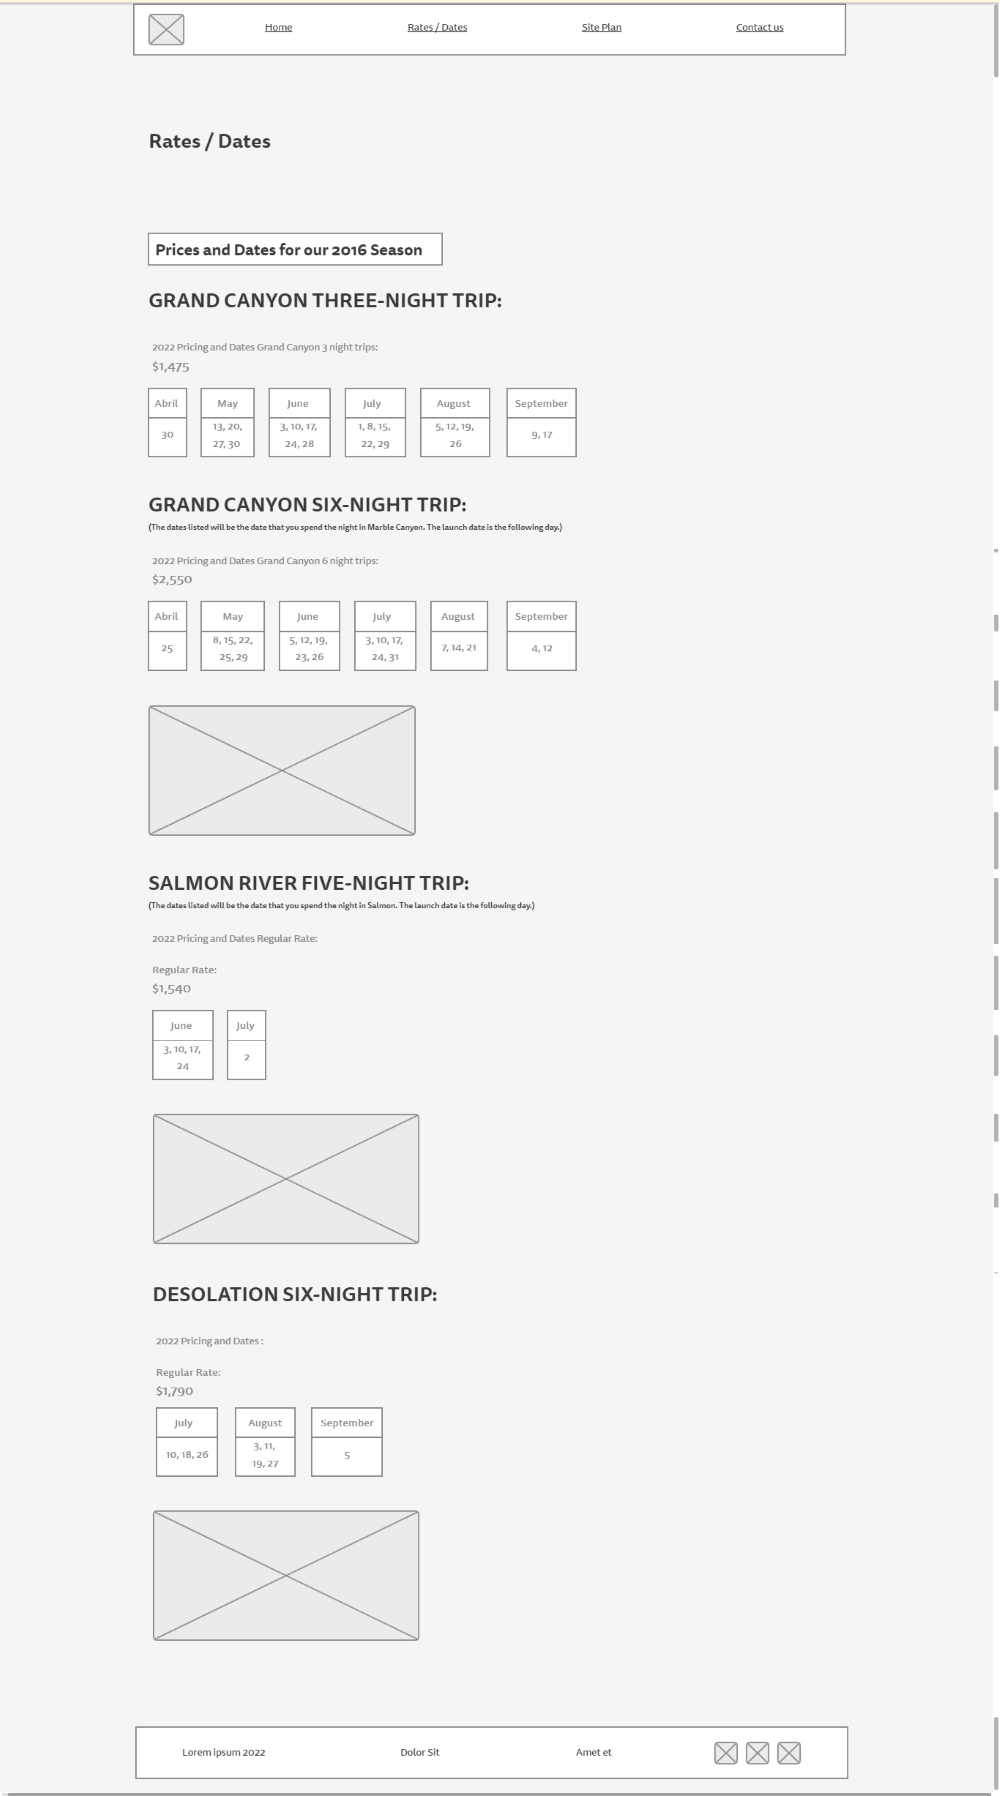
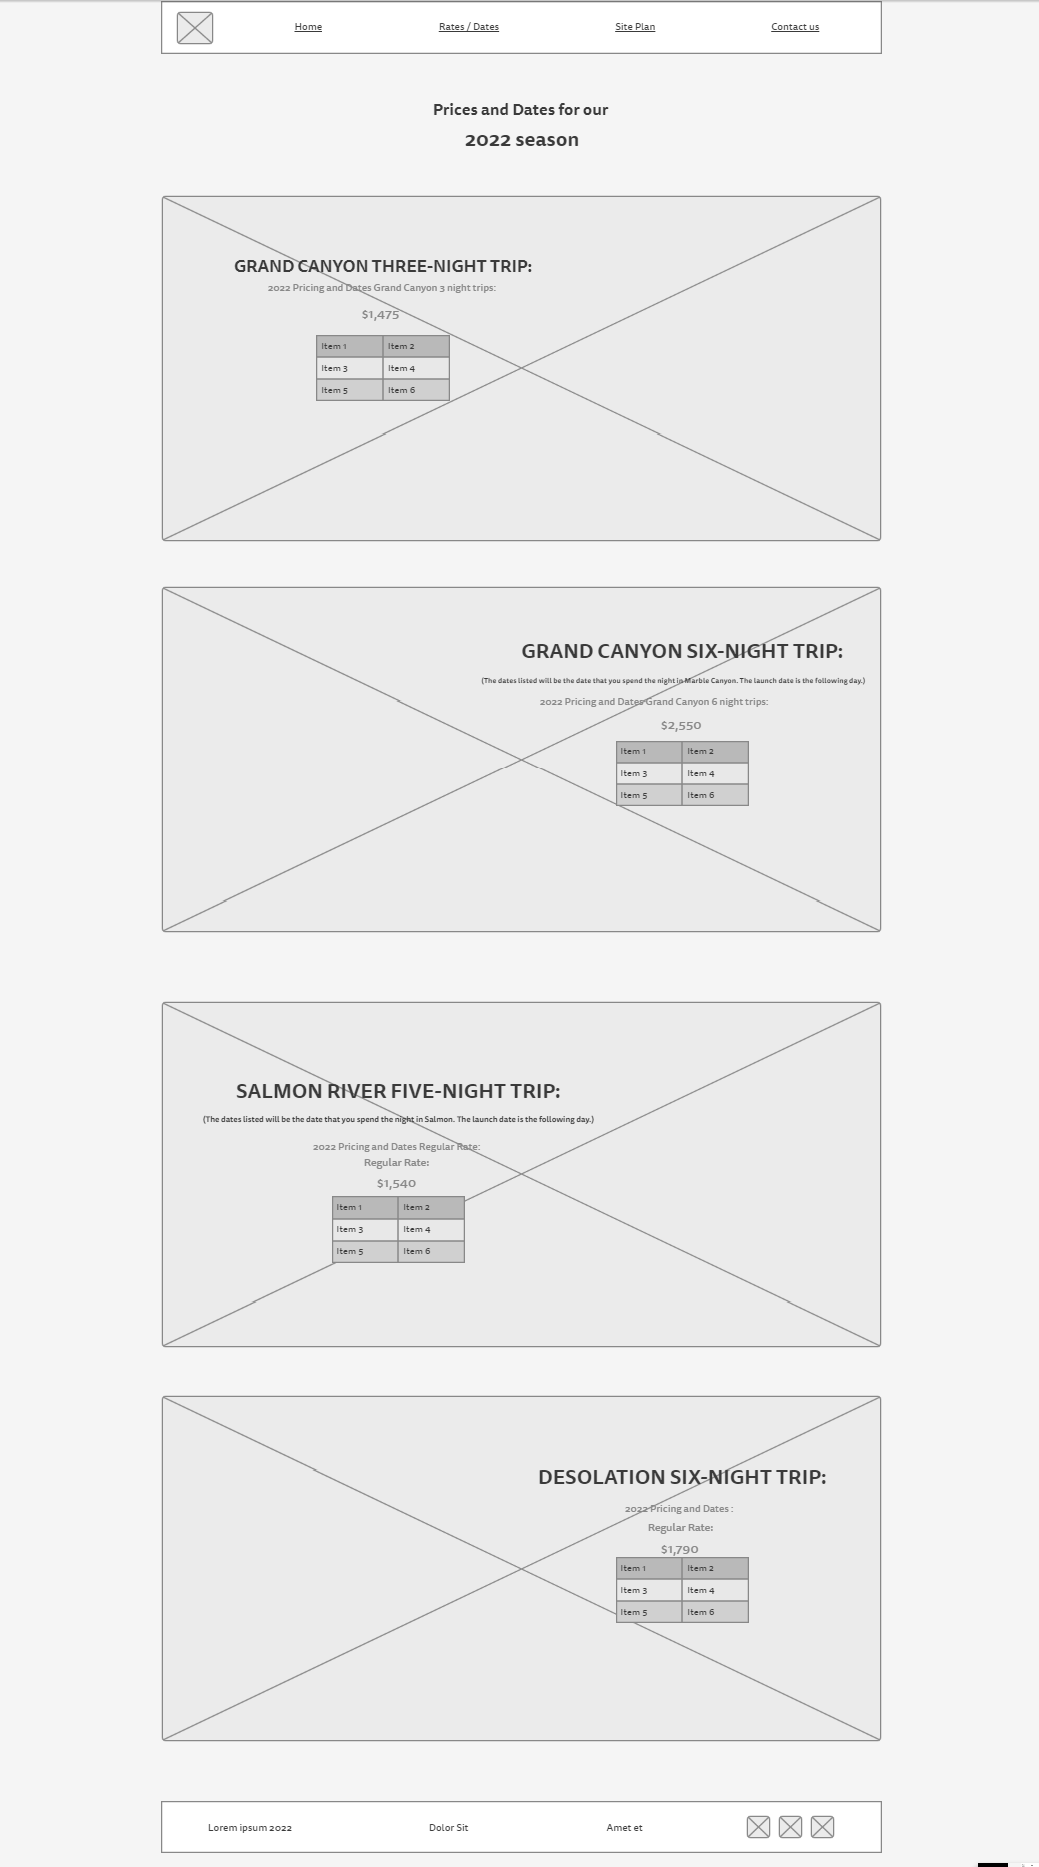
W09: Completed Rafting Site Subpage

diff --git a/wwr/rates_and_dates.html b/wwr/rates_and_dates.html
@@ -1,0 +1,179 @@
+<!DOCTYPE html>
+<html lang="en">
+<head>
+    <meta charset="UTF-8">
+    <meta http-equiv="X-UA-Compatible" content="IE=edge">
+    <meta name="viewport" content="width=device-width, initial-scale=1.0">
+    <title>Whitewater Rafting Vacations | Dry Oar Boating | Home</title>
+    <link rel="stylesheet" href="styles/style.css">
+</head>
+<body>
+    <div id="content">
+        <header>
+            <a id="logo_link" href='index.html'>
+                <img class='logo' src='images/logo.png' alt='Dry Oar logo'>
+            </a>
+            <nav>
+                <a href='index.html'>Home</a>
+                <a href='rates_and_dates.html'>Rates / Dates</a>
+                <a href="site-plan-rafting.html">Site Plan</a>
+                <a href="contactus.html">Contact Us</a>
+            </nav>    
+        </header>
+        <div id='dates-title'>
+            <h1 id='dates-title-1'>Prices and Dates for our</h1>
+            <h1 id='dates-title-2'>2022 season</h1>
+        </div>
+        <main id="main-container">
+            <div class="first-date">
+                <section class="text-information">
+                    <h2 class="headings">GRAND CANYON THREE-NIGHT TRIP:</h2>
+                    <p>2022 Pricing and Dates: </p>
+                    <p>$1,475 </p>
+                    <table class="dates-table">
+                        <tr>
+                            <th class="month">Abril</th>
+                            <th class="days">30</th>   
+                        </tr>
+                        <tr>
+                            <th class="month">May</th>
+                            <th class="days">13, 20, 27, 30</th>
+                        </tr>
+                        <tr>                            
+                            <th class="month">June</th>
+                            <th class="days">3, 10, 17, 24, 28</th>                            
+                        </tr>
+                        <tr>
+                            <th class="month">July</th>
+                            <th class="days">1, 8, 15, 22, 29</th>
+                        </tr>
+                        <tr>
+                            <th class="month">August</th>
+                            <th class="days">5, 12, 19, 26</th>
+                        </tr>
+                        <tr>
+                            <th class="month">Sept</th>
+                            <th class="days">9, 17</th>
+                        </tr>
+                    </table>
+                    <div class="button-box">
+                        <a class="book" href="contactus.html">Book Now</a>
+                    </div>
+                </section>                                  
+            </div> 
+            <div id="image-1">
+                <img class="images" src='images/grand-canyon.jpg' alt='Grand Canyon Picture'>
+            </div>                    
+            <div class="second-date">
+                <section class="text-information">
+                    <h2 class="headings">GRAND CANYON SIX-NIGHT TRIP:</h2>
+                    <h3>(The dates listed will be the date that you spend the night in Marble Canyon. The launch date is the following day.)</h3>
+                    <p>2022 Pricing and Dates: </p>
+                    <p>$2,550 </p>
+                    <table class="dates-table">
+                        <tr>
+                            <th class="month">Abril</th>
+                            <th class="days">25</th>   
+                        </tr>
+                        <tr>
+                            <th class="month">May</th>
+                            <th class="days">8, 15, 19, 23, 26</th>
+                        </tr>
+                        <tr>                            
+                            <th class="month">June</th>
+                            <th class="days">5, 12, 19, 23, 26</th>                            
+                        </tr>
+                        <tr>
+                            <th class="month">July</th>
+                            <th class="days">3, 10, 17, 24, 31</th>
+                        </tr>
+                        <tr>
+                            <th class="month">August</th>
+                            <th class="days">7, 14, 21</th>
+                        </tr>
+                        <tr>
+                            <th class="month">Sept</th>
+                            <th class="days">4, 12</th>
+                        </tr>
+                    </table>
+                    <div class="button-box">
+                        <a class="book" href="contactus.html">Book Now</a>
+                    </div>
+                </section>                              
+            </div>  
+            <div id="image-2">
+                <img class="images" src="images/backpacker-grand-canyon.jpg" alt="backpacker-grand-canyon-picture">
+            </div>          
+            <div class="third-date">
+                <section class="text-information">
+                    <h2 class="headings">SALMON RIVER FIVE-NIGHT TRIP:</h2>
+                    <h3>(The dates listed will be the date that you spend the night in Salmon. The launch date is the following day.)</h3>
+                    <p>2022 Pricing and Dates: </p>
+                    <p>Regular rate:</p>
+                    <p>$1,540 </p>
+                    <table class="dates-table">
+                        <tr>
+                            <th class="month">June</th>
+                            <th class="days">3, 10, 17, 24</th>
+                        </tr>
+                        <tr>
+                            <th class="month">July</th>                            
+                            <th class="days">2</th>
+                        </tr>
+                    </table>
+                    <div class="button-box">
+                        <a class="book" href="contactus.html">Book Now</a>
+                    </div>
+                </section>               
+            </div>  
+            <div id="image-3">
+                <img class="images" src='images/salmon-river.jpg' alt='Salmon River Picture'>
+            </div>         
+            <div class="fourth-date">
+                <section class="text-information">
+                    <h2 class="headings">DESOLATION GRAY SIX-NIGHT TRIP:</h2>
+                    <p>2022 Pricing and Dates: </p>
+                    <p>Regular rate:</p>
+                    <p>$1,790 </p>
+                    <table class="dates-table">
+                        <tr>
+                            <th class="month">July</th>
+                            <th class="days">10, 18, 26</th>
+                        </tr>
+                        <tr>
+                            <th class="month">August</th>
+                            <th class="days">3, 11, 19, 27</th>
+                        </tr>
+                        <tr>
+                            <th class="month">Sept</th>
+                            <th class="days">5</th>
+                        </tr>
+                    </table>
+                    <div class="button-box">
+                        <a class="book" href="contactus.html">Book Now</a>
+                    </div>
+                </section>              
+            </div>  
+            <div id="image-4">
+                <img class="images" src='images/desolation-river.jpg' alt='Desolation River Picture'>         
+            </div>              
+        </main>
+        <footer>
+            <h3>Dry Oar &copy; 2022 - Alma Benavides</h3>
+            <h3><a href="site-plan-rafting.html">Site Plan</a></h3>
+            <h3><a href="contactus.html">Contact Us</a></h3>
+            <div class="social">
+                <a href="https://facebook.com" target="_blank">
+                    <img src="images/facebook.png" alt="fb icon">
+                </a>
+                <a href="https://twitter.com" target="_blank">
+                    <img src="images/twitter.png" alt="twitter icon">
+                </a>
+                <a href="https://instagram.com" target="_blank">
+                    <img src="images/instagram.png" alt="instagram icon">
+                </a>
+            </div>
+        </footer>
+    </div>
+</body>
+</html>

diff --git a/wwr/styles/style.css b/wwr/styles/style.css
@@ -11,6 +11,10 @@ body {
     max-width: 1600px;
     margin: auto;
 }
+header {
+    display: grid;
+    grid-template-columns: 150px auto;
+}
 nav {
     display: flex;
     justify-content: space-around;
@@ -180,6 +184,90 @@ footer .social img {
     padding-top: 15px;
 }
 
+/* Page 2: Rates/Dates */
+
+#dates-title {
+    text-align: center;
+    margin: 30px;
+    color: #2a241a;
+    text-shadow: 3px 3px 10px rgba(82, 81, 81, 0.818);
+    font-family: 'Francois One', Tahoma, 'Franklin Gothic Medium';
+    font-size: 30px;
+    padding: 15px 100px;   
+}
+#dates-title-2{
+    margin-top: -40px;
+    font-size: 80px;
+}
+#main-container {
+    display: grid;
+    grid-template-columns: repeat(7, 1fr);
+    grid-template-rows: repeat(4, 1fr);
+    gap: 40px;
+}
+.text-information {
+    text-align: center;  
+    background-color: #efd09e79; 
+    padding: 20px;
+    padding-bottom: 30px;
+    margin-top: 100px;   
+}
+.headings {
+    font-weight:  bolder;
+}
+.dates-table {   
+    margin: auto;
+    text-align: left;
+}
+th {
+    padding: 10px;
+    background-color: #315659;
+    color: white;
+}
+.first-date {
+    grid-column: 2/4;
+    grid-row: 1/2;
+}
+.second-date {
+    grid-column: 5/7;
+    grid-row: 2/3;
+}
+.third-date {
+    grid-column: 2/4;
+    grid-row: 3/4;
+}
+.fourth-date {
+    grid-column: 5/7;
+    grid-row: 4/5;
+}
+#image-1{
+   grid-column: 1/8;
+   grid-row: 1/2;
+   z-index: -1;
+}
+#image-2{
+    grid-column: 1/8;
+    grid-row: 2/3;
+    z-index: -1;
+ }
+ #image-3{
+    grid-column: 1/8;
+    grid-row: 3/4;
+    z-index: -1;
+ }
+ #image-4{
+    grid-column: 1/8;
+    grid-row: 4/5;
+    z-index: -1;
+ }
+.images{
+    width: 100%;
+}
+main h3 {
+    font-size: 18px;
+    margin-bottom: 50px;
+}
+
 @media screen and (max-width: 900px) {
     #hero, .home-grid {
         display: block;
@@ -202,8 +290,7 @@ footer .social img {
         display: none;
     }
     .home-title {
-        font-size: 25px;
-        color: #6f7364;
+        font-size: 25px;    
     }
     .rivers-card, .camping-card, .rapids-card { 
         margin: 50px auto;
@@ -220,4 +307,27 @@ footer .social img {
     footer {
         margin-top: 25px;
     }
+
+    /* Page 2: Rates/Dates */
+
+    #main-container {
+        display: block;
+        height: auto;
+    }
+    
+    .text-information {
+        background-color:#D19C64;
+        text-shadow: 2px 0.5px 5px #2a241a;
+        box-shadow: 10px 1px 15px #2a241a;
+    }
+
+    #dates-title-1 {
+        font-size: 40px;
+        text-align: center;
+    }
+    #dates-title-2 {
+        margin-top: 30px;
+        font-size: 50px;
+    }
 }
+

diff --git a/wwr/index.html b/wwr/index.html
@@ -15,7 +15,7 @@
             </a>
             <nav>
                 <a href='index.html'>Home</a>
-                <a href='#'>Rates / Dates</a>
+                <a href='rates_and_dates.html'>Rates / Dates</a>
                 <a href="site-plan-rafting.html">Site Plan</a>
                 <a href="contactus.html">Contact Us</a>
             </nav>    
